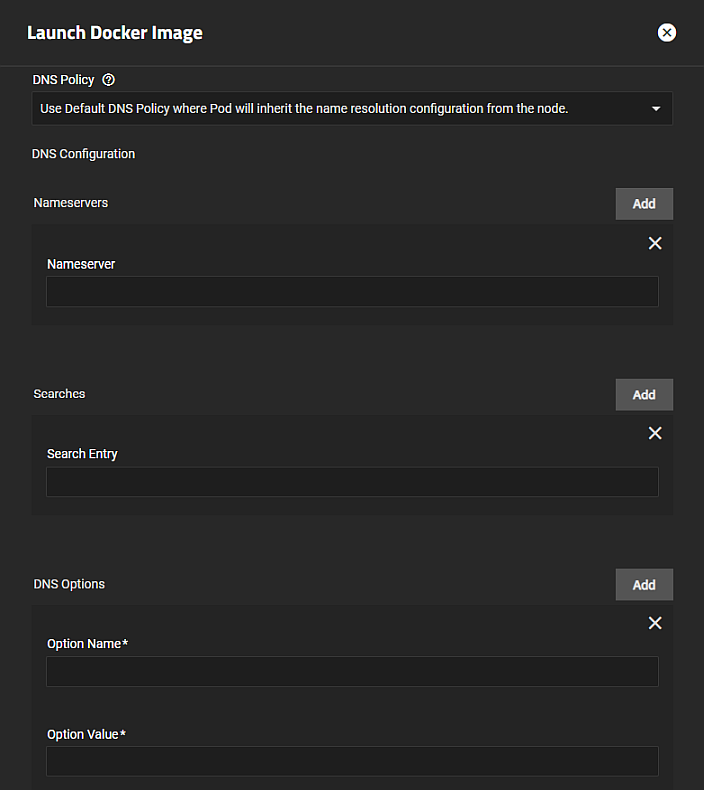
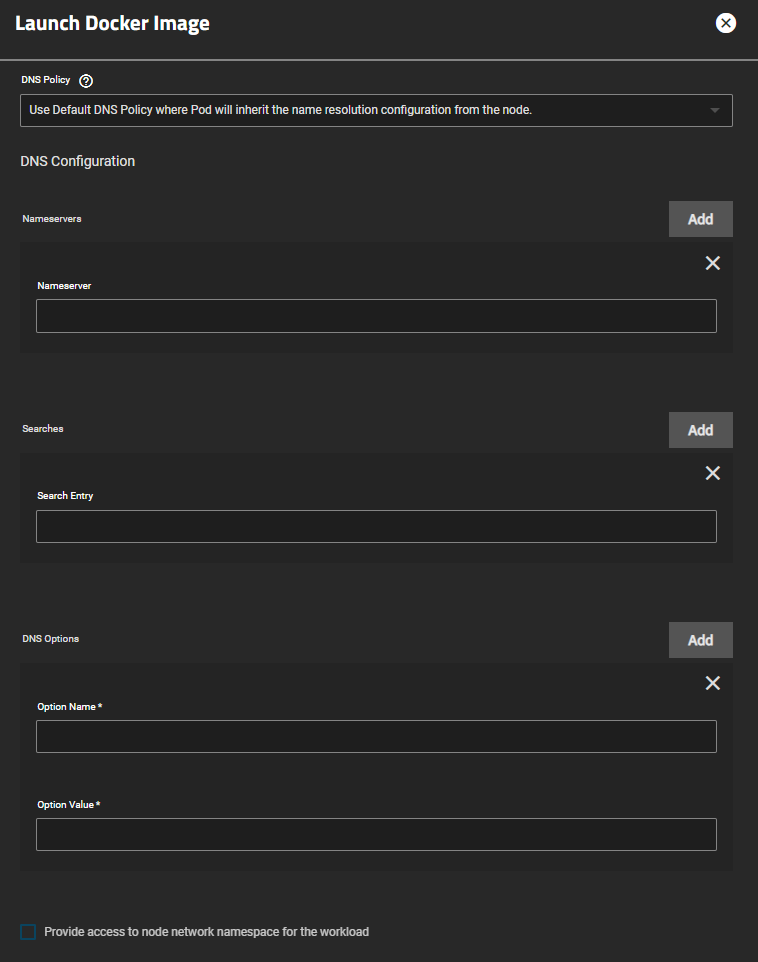
PD-197

diff --git a/content/SCALE/SCALEUIReference/Apps/LaunchDockerImageScreens.md b/content/SCALE/SCALEUIReference/Apps/LaunchDockerImageScreens.md
@@ -1,6 +1,6 @@
 ---
 title: "Launch Docker Image Screens"
-description: "This article provides information on the **Launch Docker Image** wizard configuration screens and settings."
+description: "This article provides information on the **Launch Docker Image** wizard configuration settings."
 weight: 25
 aliases:
 tags:
@@ -11,36 +11,35 @@ tags:
 {{< toc >}}
 
 
-**Launch Docker Image** on the **Applications** screen opens a configuration wizard that steps through the application creation process using Docker image when selected while on the **Available Applications** tab.  
+**Launch Docker Image** on the **Applications** screen opens a configuration wizard that steps through the application creation process using a Docker image when selected while on the **Available Applications** tab.  
 
 ![AppsScreenHeaderSCALE](/images/SCALE/22.02/AppsScreenHeaderSCALE.png "Avalable Application Header Options") 
 
-The docker image wizard includes 12 configuration screens and a **Confirm Options** screen that displays a summary of some of the setting options configured.
 The **Launch Docker Image** wizard allows you to configure third-party applications using settings based on Kubernetes. You can use the wizard to configure applications not included in the **Official** catalog or to do a more advanced installation of official catalog applications.
 
-## Application Name Screen
-The **Application Name** screen is the first step in the **Launch Docker Image** configuration wizard.
+## Application Name
+The **Application Name** section is the first step in the **Launch Docker Image** configuration wizard.
 {{< expand "Click Here for More Information" "v" >}}
 
 ![LaunchDockerImageApplicationVersion](/images/SCALE/22.12/LaunchDockerImageApplicationVersion.png "Application Name and Version") 
 
 | Setting | Description |
 |---------|-------------|
-| **Application Name** | Displays **ix-Chart** as the default. Enter a name for the application you are adding. The name must have lowercase alphanumeric characters, must begin with an alphabet character and can end with an alphanumeric character. The name can contain a hyphen (-) but not as the first or last character in the name. For example, using *chia-1* but not *-chia1* or *1chia-* as a valid name. |
-| **Version** | Displays the current version for the default application. Enter the version for the application you want to install.|
+| **Application Name** | Displays **ix-Chart** as the default. Enter a name for the application you are adding. The name must have lowercase alphanumeric characters, must begin with an alphabet character, and can end with an alphanumeric character. The name can contain a hyphen (-) but not as the first or last character in the name. For example, using *chia-1* but not *-chia1* or *1chia-* as a valid name. |
+| **Version** | Displays the current version of the default application. Enter the version of the application you want to install.|
 {{< /expand >}}
 
-## Container Images Screen
-The  **Container Images** settings specify the Docker image details. Always refer to the dockerhub page for information on what the docker container requires.
+## Container Images
+The  **Container Images** settings specify the Docker image details. Always refer to the docker hub page for information on docker container requirements.
 {{< expand "Click Here for More Information" "v" >}}
-Define the image tag, when the image is pulled from the remote repository, how the container is updated, and when a container automatically restarts with these settings.
+Define the image tag, when TrueNAS pulls the image from the remote repository, how the container updates, and when a container automatically restarts with these settings.
 
 ![LaunchDockerImageContainerImage](/images/SCALE/22.12/LaunchDockerImageContainerImage.png "Container Images")  
 
 | Setting | Description |
 |---------|-------------|
-| **Image Repository** | Required. Enter the Docker image repository name. For example, for Plex enter *plexinc/pms-docker*.|
-| **Image Tag** | Enter the tag for the specified image. For example, for Plex enter *1.20.2.3402-0fec14d92*. |
+| **Image Repository** | Required. Enter the Docker image repository name. For example, *plexinc/pms-docker* for Plex.|
+| **Image Tag** | Enter the tag for the specified image. For example, *1.20.2.3402-0fec14d92* for Plex. |
 | **Image Pull Policy** | Select the Docker image pull policy from the dropdown list. Options are **Only pull image if not present on host**, **Always pull image even if present on host**, or **Never pull image even if it's not present on host**. |
 {{< /expand >}}
 
@@ -49,7 +48,7 @@ The **Container Entrypoint** settings specify both commands and argument options
 {{< expand "Click Here for More Information" "v" >}}
 Define any [commands and arguments](https://kubernetes.io/docs/tasks/inject-data-application/define-command-argument-container/) to use for the image.
 These can override any existing commands stored in the image. 
-Check the documentation for the application you want to install using a Docker Image for entrypoint commands or arguments you need to enter.
+Check the documentation for the application you want to install using a Docker Image for entry point commands or arguments you need to enter.
 
 ![LaunchDockerImageAddContainerEntrypoints](/images/SCALE/22.12/LaunchDockerImageAddContainerEntrypoints.png "Add Container Entrypoints") 
 
@@ -65,7 +64,7 @@ Check the documentation for the application you want to install using a Docker I
 The **Container Environment Variables** settings specify container environment variables the container/image needs. 
 You can also [define additional environment variables](https://kubernetes.io/docs/tasks/inject-data-application/define-environment-variable-container/) for the container.
 {{< expand "Click Here for More Information" "v" >}}
-Be sure to check the documentation for the image you are trying to deploy and add any required variables here.
+Check the documentation for the image you are trying to deploy and add any required variables here.
 
 ![LaunchDockerImageAddContainerEnvironmentVariables](/images/SCALE/22.12/LaunchDockerImageAddContainerEnvironmentVariables.png "Add Container Environmental Variables") 
 
@@ -73,15 +72,15 @@ Be sure to check the documentation for the image you are trying to deploy and ad
 |---------|-------------|
 | **Configure Container Environment Variables** | Click **Add** to display a block of **Container Environment Variables**. Click again to add more blocks for environment variables. |
 | **Container Environment Variables** | Container environmental variable name and value fields. |
-| **Environment Variable Name** | Enter the environment variable name. For example, if installing Pi-Hole enter **TZ** for timezone. |
-| **Environment Variable Value** | Enter the value for the variable specified in **Environment Variable Name**. For example, for Pi-Hole timezone variable, enter *AmericaNewYork*. |
+| **Environment Variable Name** | Enter the environment variable name. For example, enter **TZ** for the timezone if installing Pi-Hole. |
+| **Environment Variable Value** | Enter the value for the variable specified in **Environment Variable Name**. For example, for the Pi-Hole timezone variable, enter *AmericaNewYork*. |
 {{< /expand >}}
 
 ## Networking
-The **Networking** settings specify network policy, addresses, and DNS services if the container needs special networking configuration.
+The **Networking** settings specify network policy, addresses, and DNS services if the container needs a custom networking configuration.
 {{< expand "Click Here for More Information" "v" >}}
 See the [Docker documentation](https://docs.docker.com/network/host/) for more details on host networking. 
-Users can create additional network interfaces for the container if needed or give static IP addresses and routes to new interface. 
+You can create additional network interfaces for the container or give static IP addresses and routes to a new interface. 
 By default, containers use the DNS settings from the host system.
 You can change the DNS policy and define separate nameservers and search domains.
 See the Docker [DNS services documentation](https://docs.docker.com/config/containers/container-networking/#dns-services) for more details.
@@ -92,23 +91,24 @@ See the Docker [DNS services documentation](https://docs.docker.com/config/conta
 |---------|-------------|
 | **Add External Interfaces** | Click **Add** to displays a block of interface settings. |
 | **Host Interface** | Required. Select a host interface on your system from the dropdown list. |
-| **IPAM Type** | Required. Select an option from the dropdown list to specify the type for IPAM. Options are **Use DHCP** or **Use Static IP**. To add a default route, select **Add route** allow you to enter route destination IP /subnet 0.0.0.0/0. Enter the gateway (for example, *192.168.1.1*). After submitting the docker image, navigate to **Installed Applications**, locate the docker image you added, select **Edit** and change the route destination/subnet to equal 0.0.0.0 /0. |
+| **IPAM Type** | Required. Select an option from the dropdown list to specify the IPAM type. Options are **Use DHCP** or **Use Static IP**. To add a default route, select **Add route**, which allows you to enter route destination IP /subnet 0.0.0.0/0. Enter the gateway (for example, *192.168.1.1*). After submitting the docker image, navigate to **Installed Applications**, locate the docker image you added, select **Edit** and change the route destination/subnet to equal 0.0.0.0 /0. |
 
-![LaunchDockerImageAddDNS](/images/SCALE/22.12/LaunchDockerImageAddDNS.png "Add DNS Policy and Settings")  
+![LaunchDockerImageAddDNS](/images/SCALE/22.12.2/LaunchDockerImageAddDNS.png "Add DNS Policy and Settings")  
 
 | Setting | Description |
 |---------|-------------|
-| **DNS Policy** | Select the option from the dropdown list that specifies the policy. Default behavior is where Pod inherits the name resolution configuration from the node that the pods run on. If **None** is specified, it allows a pod to ignore DNS settings from the Kubernetes environment. Options are:<br> **Use Default DNS Policy where Pod inherits the name resolution configuration from the node**.<br> **Kubernetes internal DNS is prioritized and resolved first.** If the domain does not resolve with internal kubernetes DNS, the DNS query forwards to the upstream nameserver inherited from the node. This useful if the workload to access other services, workflows, using kubernetes internal DNS.<br> **For Pods running with hostNetwork and wanting to prioritize internal kubernetes DNS should make use of this policy.**<br> **Ignore DNS settings from the Kubernetes cluster**. |
-| **DNS Configuration** | Specify custom DNS configuration to apply to the pod. Click **Add** to dsiplay a **Nameserver** entry field. Click again to add another name server. |
+| **DNS Policy** | Select the option from the dropdown list that specifies the policy. With the default behavior, the pod inherits the name resolution configuration from the node that the pods run on. With **None**,  a pod can ignore DNS settings from the Kubernetes environment. Options are:<br> **Use Default DNS Policy where Pod inherits the name resolution configuration from the node**.<br> **Kubernetes internal DNS is prioritized and resolved first.** If the domain does not resolve with internal Kubernetes DNS, the DNS query forwards to the upstream nameserver inherited from the node, which is useful if the workload needs to access other services using Kubernetes internal DNS.<br> **For Pods running with hostNetwork and wanting to prioritize internal Kubernetes DNS should make use of this policy.**<br> **Ignore DNS settings from the Kubernetes cluster**. |
+| **DNS Configuration** | Specify custom DNS configuration to apply to the pod. Click **Add** to display a **Nameserver** entry field. Click again to add another name server. |
 | **Nameserver** | Enter the IP address of the name server. |
 | **Searches** | Click **Add** to display a **Search Entry** field to enter the search value you want to configure. |
 | **DSN Options** | Click **Add** to display a block of **Option Entry Configuration** settings. Click again to display another block of settings if needed.  |
 | **Option Name** | Required. Enter the option name. |
 | **Option Value** | Required. Enter the value for the option name. |
+| **Provide access to node network namespace for the workload** | Select to allow the container to bind to any port. Some ports still require appropriate permissions. Unless you need it, we recommend leaving this setting disabled because app containers might try to bind to arbitrary ports like 80 or 443, which the TrueNAS UI already uses.  |
 {{< /expand >}}
 
-##  Port Forwarding
-The **Port Forwarding** settings specify the container and node ports and the transfer protocol to use.
+## Port Forwarding
+The **Port Forwarding** settings specify the container and node ports and the transfer protocol.
 {{< expand "Click Here for More Information" "v" >}}
 Choose the protocol and enter port numbers for both the container and node. You can define multiple port forwards. 
 
@@ -119,43 +119,43 @@ Choose the protocol and enter port numbers for both the container and node. You 
 | **Configure Specify Node ports to forward to workload** | Click **Add** to display a block of **Port Forwarding Configuration** settings. |
 | **Container Port** | Required. Do not enter the same port number used by another system service or container. |
 | **Node Port** | Required. Enter a node port number over **9000**. |
-| **Protocol** | Select the protocol to use from the dropdown list. Options are **TCP Protocol** or **UDP Protocol**.  |
+| **Protocol** | Select the protocol from the dropdown list. Options are **TCP Protocol** or **UDP Protocol**.  |
 {{< /expand >}}
 
 ## Storage
-The **Storage** settings specify the host path configuration, memory backed volumes, and storage volumes. 
+The **Storage** settings specify the host path, memory-backed, and storage volumes. 
 {{< hint ok >}}
-Create the pool, dataset, zvol or directory for the container to use before you begin configuring the container as leaving the wizard closes it without saving.
+Exiting the wizard closes it without saving settings, so create the pool, dataset, zvol, or directory for the container to use before you begin configuring an app.
 {{< /hint >}}
 {{< expand "Click Here for More Information" "v" >}}
 Set the Host Path volume to a dataset and directory path. 
-For host path volumes, you can mount SCALE storage locations inside the container. Define the path to the system storage and the container internal path for the system storage location to appear.
+You can mount SCALE storage locations inside the container with host path volumes. Define the path to the system storage and the container internal path for the system storage location to appear.
 For more details, see the [Kubernetes hostPath documentation](https://kubernetes.io/docs/concepts/storage/volumes/#hostpath).
 Users can create additional Persistent Volumes (PVs) for storage within the container. 
 PVs consume space from the pool chosen for application management. To do this, name each new dataset and define a path where that dataset appears inside the container.
 
-![LaunchDockerImageAddStorage](/images/SCALE/22.12/LaunchDockerImageAddStorage.png "Add Storage Paths and Volumes") 
+![LaunchDockerImageAddStorage](/images/SCALE/22.12.2/LaunchDockerImageAddStorage.png "Add Storage Paths and Volumes") 
 
 | Setting | Description |
 |---------|-------------|
 | **Host Path Volumes** | Click **Add** to display a block of **Host Path Volume** settings. Click again to add another block of settings. |
 | **Host Path** | Require. Enter or click <span class="material-icons">arrow_right</span> to the left of <span class="material-icons">folder</span> **/mnt** to browse to the location of the host path. Click on the dataset to select and display it in the **Host Path** field. |
-| **Mount Path** | Required. Enter the <file>**/data**</file> directory where host path mounts inside the pod. |
-| **Read Only** | Select to make the mount path inside the pod read only and prevent using the container to store data. |
+| **Mount Path** | Required. Enter the <file>**/data**</file> directory where the host path mounts inside the pod. |
+| **Read Only** | Select to make the mount path inside the pod read-only and prevent using the container to store data. |
 
 ![LaunchDockerImageStorageAddVolumes](/images/SCALE/22.12/LaunchDockerImageStorageAddVolumes.png "Storage Volume Settings") 
 
 | Setting | Description |
 |---------|-------------|
 | **Memory Backed Volumes** | Click **Add** to display a block of **Memory Backed Volume** settings. Click again to display another block of settings. |
-| **Mount Path** | Required. Enter the path where temporary path mounts inside the pod. |
+| **Mount Path** | Required. Enter the path where the temporary path mounts inside the pod. |
 | **Volumes** | Click **Add** to display a block of **Volume** settings. Click again to add another block of settings.  |
 | **Mount Path** | Required. Enter the path where the volume mounts inside the pod. |
 | **Dataset Name** | Required. Enter the name of the dataset. |
 {{< /expand >}}
 
 ## Workload Details
-The **Workload Details** settings specify if containers in a pod run with TTY or STDIN enabled, allow it to enable any device on the host or configure host capabilities, and if you run the container as a user or group.
+The **Workload Details** settings specify if containers in a pod run with TTY or STDIN enabled, allow it to enable any device on the host or configure host capabilities and if you run the container as a user or group.
 {{< expand "Click Here for More Information" "v" >}}
 
 ![LaunchDockerImageAddWorkloadDetails](/images/SCALE/22.12/LaunchDockerImageAddWorkloadDetails.png "Workload Details") 
@@ -163,13 +163,13 @@ The **Workload Details** settings specify if containers in a pod run with TTY or
 | Setting | Description |
 |---------|-------------|
 | **Enable TTY** | Select to set containers in a pod to run with TTY enabled. Disabled by default. |
-| **enable STDIN** | Select to set containers in a pod to run with STDIN enabled. Disabled by default. |
-| **Privileged Mode** | Select to allow any container in a pod to enable any device on the host, but a **privileged** container is given access to all devices on the host. This allows the container nearly all the same access as processes running on the host. |
+| **Enable STDIN** | Select to set containers in a pod to run with STDIN enabled. Disabled by default. |
+| **Privileged Mode** | By default, a container cannot access any devices on the host. With Privileged Mode enabled, the container has access to all devices on the host, which allows the container nearly all the same access as processes running on the host. |
 | **Capabilities** | Click **Add** to display a **Add Capability** field. Click again to add another field. |
 | **Add Capability** | Enter a capability. |
 | **Configure Container User and Group ID** | Select to display the **Run Container as User** and **Run Container as Group** settings to add security context (`runAsUser` and `runAsGroup` variables). |
-| **Run Container As User** | Enter a user ID (numeric value) for container. |
-| **Run Container as Group** | Enter a group ID (numeric value) for container. |
+| **Run Container As User** | Enter a numeric user ID for the container. |
+| **Run Container as Group** | Enter a numeric group ID for the container. |
 {{< /expand >}}
 
 ## Scaling/Upgrade Policy
@@ -179,12 +179,12 @@ Use **Kill existing pods before creating new ones** to recreate the container or
 ![LaunchDockerImageScalingUpgrade](/images/SCALE/22.12/LaunchDockerImageScalingUpgrade.png "Scaling/Upgrade Policy")  
 
 Select **Create new pods and then kill the old ones** to retain your existing configuration and container until the upgrade completes before removing it.
-Select **Kill existing pods before creating new ones** to remove the exiting pod and start with a new updated pod. This is useful if your old pod was not functioning properly. For fewer issues, select **Kill existing pods before creating new ones**.
+Select **Kill existing pods before creating new ones** to remove the existing pod and start with a newly updated pod. Killing existing pods is useful if your old pod is not functioning properly. For fewer issues, select **Kill existing pods before creating new ones**.
 {{< /expand >}}
 ## Resource Reservation and Limits
-The **Resource Reservation** screen specifies the **GPU configuration**.
+The **Resource Reservation** setting specifies the **GPU configuration**.
 
-The **Resource Limits** setting specifies limits you want to place on the Kubernetes pod. 
+The **Resource Limits** setting specifies the limits you want to place on the Kubernetes pod. 
 {{< expand "Click Here for More Information" "v" >}}
 
 ![LaunchDockerImageResourcesAdd](/images/SCALE/22.12/LaunchDockerImageResourcesAdd.png "Resource Reservation and Limits")  
@@ -192,13 +192,11 @@ The **Resource Limits** setting specifies limits you want to place on the Kubern
 | Setting | Description |
 |---------|-------------|
 | **Enable Pod resource limits** | Select to enable resource limits and display the **CPU Limit** and **Memory Limit** settings. |
-| **CPU Limit** | Enter the integer values with suffix m(mill) you want to use to limit the CPU resource. For example, 1000m, 100, etc. |
+| **CPU Limit** | Enter the integer values with the suffix m (mill) you want to use to limit the CPU resource. For example, 1000m, 100, etc. |
 | **Memory Limit** | Enter the number of bytes you want to limit memory to. Follow the number with the quantity suffix, like E, P, T, G, M, k or Ei, Pi, Ti, Mi, Gi, Ki. For example, 129e6, 129m, 12897484800m, 123Mi, etc. |
 {{< /expand >}}
+
 ## Portal Configuration
 The **Portal Configuration** setting specifies whether to **Enable WebUI Portal (only supported in TrueNAS SCALE Bluefin)**.
-
-## Confirm Options
-The **Confirm Options** screen displays a summary of the image/container configuration. Click **Back** to return to previous screens to make changes and **Next** to advance back to **Confirm Options**. Click **Save** to create the image and add the application to the **Installed Applications** screen.
 
 {{< taglist tag="scaledocker" limit="10" >}}

diff --git a/content/SCALE/SCALETutorials/Apps/Docker.md b/content/SCALE/SCALETutorials/Apps/Docker.md
@@ -14,24 +14,24 @@ tags:
 SCALE includes the ability to run Docker containers using Kubernetes.
 
 {{< expand "What is Docker?" "v" >}}
-Docker is an open platform for developing, shipping, and running applications. Docker enables the separation of applications from infrastructure through OS-level virtualization to deliver software in containers.
+Docker is an open-source platform for developing, shipping, and running applications. Docker enables the separation of applications from infrastructure through OS-level virtualization to deliver software in containers.
 {{< /expand >}}
 
 {{< expand "What is Kubernetes?" "v" >}}
-Kubernetes is a portable, extensible, open-source container-orchestration system for automating computer application deployment, scaling, and management with declarative configuration and automation.
+Kubernetes (K8s) is an open-source system for automating deployment, scaling, and managing containerized applications.
 {{< /expand >}}
 
 Always read through the Docker Hub page for the container you are considering installing so that you know all of the settings that you need to configure.
-To set up a Docker image, first determine if you want the container to use its own dataset. If yes, [create a dataset]({{< relref "DatasetsSCALE.md" >}}) for host volume paths before you click **Launch Docker Image**. 
+To set up a Docker image, first, determine if you want the container to use its dataset. If yes, [create a dataset]({{< relref "DatasetsSCALE.md" >}}) for host volume paths before you click **Launch Docker Image**. 
 
 ## Adding Custom Applications
 
 {{< hint warning >}}
-If your application requires directory paths, specific datasets, or other storage arrangements, configure these before you starting the **Launch Docker Image** wizard. 
+If your application requires directory paths, specific datasets, or other storage arrangements, configure these before you start the **Launch Docker Image** wizard. 
 
-You cannot interrupt the configuration wizard and save settings to leave and go create data storage or directories in the middle of the process. 
+You cannot exit the configuration wizard and save settings to create data storage or directories in the middle of the process. If you are unsure about any configuration settings, review the [Launch Docker Image UI reference article]({{< relref "LaunchDockerImageScreens.md" >}}) before creating a Docker image.
 
-To create directories in a dataset on SCALE use **System Settings > Shell** before you begin installing the container.
+To create directories in a dataset on SCALE, use **System Settings > Shell** before you begin installing the container.
 {{< /hint >}}
 
 When you are ready to create a container, go to the **APPS** screen, select the **Available Applications** tab, and then click **Launch Docker Image**.
@@ -39,26 +39,26 @@ When you are ready to create a container, go to the **APPS** screen, select the 
 ![AvailableApplicationsScreen](/images/SCALE/22.02/AvailableApplicationsScreen.png "Available Applications")
 
 1. Fill in the **Application Name** and the current version information in **Version**. 
-   Add the Github repository URL in **Image Repository** for the docker container you are setting up. 
+   Add the GitHub repository URL in **Image Repository** for the docker container. 
 
    ![LaunchDockerImageAppNameVerContainerImage](/images/SCALE/22.12/LaunchDockerImageAppNameVerContainerImage.png "Launch Docker Image")
 
 2. Enter the Github repository for the application you want to install in **Image Repository**. 
    If the application requires it, enter the correct setting values in **Image Tag** and select the **Image Pull Policy** to use. 
 
-   If the application requires it, enter the executables you want or need to run after starting the container in **Container Entrypoint**. Click **Add** for **Container CMD** to add a command, or for **Container Arg** to add a container argument.
+   If the application requires it, enter the executables you want or need to run after starting the container in **Container Entrypoint**. Click **Add** for **Container CMD** to add a command. Click **Add** for **Container Arg** to add a container argument.
 
    ![LaunchDockerImageAddContainerEntrypoints](/images/SCALE/22.12/LaunchDockerImageAddContainerEntrypoints.png "Add Container Entrypoints")
 
 3. Enter the **Container Environment Variables**. Not all applications use environment variables. 
-   Check the Docker Hub for details on the application you want to install to verify which variables are required for that particular application. 
+   Check the Docker Hub for details on the application you want to install to verify which variables that particular application requires. 
 
    ![LaunchDockerImageAddContainerEnvironmentVariables](/images/SCALE/22.12/LaunchDockerImageAddContainerEnvironmentVariables.png "Add Container Environmental Variables")
 
 4. Enter the networking settings. 
 
    a. Enter the external network interface to use. 
-      Click **Add** to display the **Host Interface** and **IPAM Type** fields required when setting up networking. 
+      Click **Add** to display the **Host Interface** and **IPAM Type** fields required when configuring network settings. 
 
       ![LaunchDockerImageAddNetworking](/images/SCALE/22.12/LaunchDockerImageAddNetworking.png "Add Networking")
 
@@ -67,49 +67,49 @@ When you are ready to create a container, go to the **APPS** screen, select the 
       ![LaunchDockerImageAddDNS](/images/SCALE/22.12/LaunchDockerImageAddDNS.png "Add DNS Policy and Settings")
 
 5. Enter the **Port Forwarding** settings. 
-   Click **Add** for each port you need to enter. TrueNAS SCALE requires setting all **Node Ports** above 9000. 
+   Click **Add** for all ports you need to enter. TrueNAS SCALE requires setting all **Node Ports** above 9000. 
 
    ![LaunchDockerImageAddPortForwarding](/images/SCALE/22.12/LaunchDockerImageAddPortForwarding.png "Add Port Forwarding")
 
-   Enter the required **Container Port** and **Node Port** settings, and select the protocol to use for these ports. Repeat for each port you need to add.
+   Enter the required **Container Port** and **Node Port** settings, and select the protocol for these ports. Repeat for all ports.
 
 6. Add the **Storage** settings. 
-   Click **Add** for each host path you need to enter for the application. Add any memory-backed or other volumes you want to use.
+   Click **Add** for each application host path. Add any memory-backed or other volumes you want to use.
 
    ![LaunchDockerImageAddStorage](/images/SCALE/22.12/LaunchDockerImageAddStorage.png "Add Storage Paths and Volumes")
 
    You can add more volumes to the container later if they are needed. 
 
-7. Enter any additional settings required for your application. Such as workload details or adding container settings for your application. 
+7. Enter any additional settings required for your application, such as workload details or adding container settings for your application. 
 
-   Select the **Update Strategy** to use. Default is to **Kill existing pods before creating new ones**.
+   Select the **Update Strategy** to use. The default is **Kill existing pods before creating new ones**.
 
    Set any resource limits you want to impose on this application.
 
 8. Enter or select any **Portal Configuration** settings to use.
 
-9. Click **Save** to complete the configuration and deployment. TrueNAS SCALE deploys the container. 
-   If correctly configured, the application widget displays on the **Installed Applications** screen.
+9. Click **Save** to deploy the container. 
+   If you correctly configured the app, the widget displays on the **Installed Applications** screen.
 
    When complete, the container becomes active. If the container does not automatically start, click **Start** on the widget.
 
 Click on the App card reveals details.
 
-###  Defining Container Settings
+### Defining Container Settings
 Define any [commands and arguments](https://kubernetes.io/docs/tasks/inject-data-application/define-command-argument-container/) to use for the image.
 These can override any existing commands stored in the image.
 
 You can also [define additional environment variables](https://kubernetes.io/docs/tasks/inject-data-application/define-environment-variable-container/) for the container.
 Some Docker images can require additional environment variables.
-Be sure to check the documentation for the image you are trying to deploy and add any required variables here.
+Check the documentation for the image you are trying to deploy and add any required variables here.
 
 ### Defining Networking
 To use the system IP address for the container, set Docker [Host Networking](https://docs.docker.com/network/host/).
-The container is not given a separate IP address and the container port number is appended to the end of the system IP address.
+TrueNAS does not give the container a separate IP address, and the container port number appends to the end of the system IP address.
 See the [Docker documentation](https://docs.docker.com/network/host/) for more details.
 
 Users can create additional network interfaces for the container if needed.
-Users can also give static IP addresses and routes to new interface.
+Users can also give static IP addresses and routes to a new interface.
 
 By default, containers use the DNS settings from the host system.
 You can change the DNS policy and define separate nameservers and search domains.
@@ -117,10 +117,10 @@ See the Docker [DNS services documentation](https://docs.docker.com/config/conta
 
 ### Defining Port Forwarding List
 Choose the protocol and enter port numbers for both the container and node.
-You can define multiple port forwards.
+You can define multiple ports to forward to the workload.
 {{< hint info >}}
 The node port number must be over **9000**.
-Make sure no other containers or system services are using the same port number.
+Ensure no other containers or system services are using the same port number.
 {{< /hint >}}
 
 ### Defining Host Path Volumes
@@ -138,7 +138,7 @@ To view created container datasets, go to **Datasets** and expand the dataset tr
 
 ### Setting Up Persistent Volume Access
 
-Users developing applications should be mindful that if an application uses Persistent Volume Claims (PVC), those datasets are not mounted on the host, and therefore are not accessible within a file browser. This is upstream zfs-localpv behavior used for managing PVC(s)
+Users developing applications should be mindful that if an application uses Persistent Volume Claims (PVC), those datasets are not mounted on the host and therefore are not accessible within a file browser. Upstream zfs-localpv uses this behavior to manage PVC(s).
 
 If you want to consume or have file browser access to data that is present on the host, set up your custom application to use host path volumes.
 
@@ -155,7 +155,7 @@ To copy a remote pod file locally:
 
 ## Accessing the Shell in an Active Container
 
-To access the shell in an active container, first identify the namespace and pod for the container.
+To access the shell in an active container, first, identify the namespace and pod for the container.
 In the Scale UI, go to **System Settings > Shell** to begin entering commands:
 
 To view container namespaces: `k3s kubectl get namespaces`.
